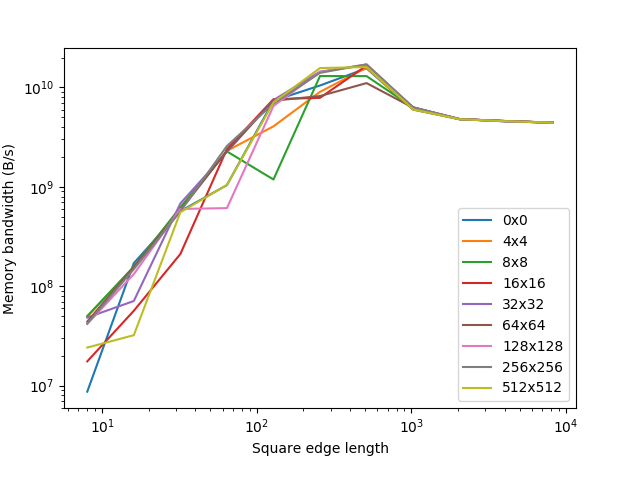
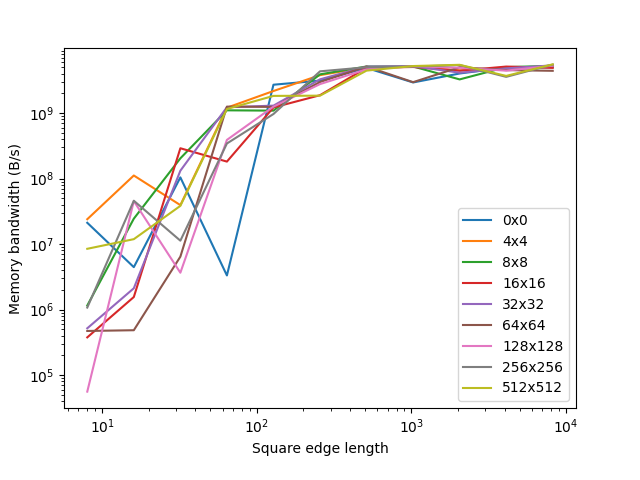
Expensive trig graph

diff --git a/deqn/src/ExplicitSchemeSingleThread.C b/deqn/src/ExplicitSchemeSingleThread.C
@@ -2,6 +2,7 @@
 
 #include <iostream>
 #include <omp.h>
+#include <math.h>
 
 #define POLY2(i, j, imin, jmin, ni) (((i) - (imin)) + (((j)-(jmin)) * (ni)))
 
@@ -86,7 +87,7 @@ void ExplicitSchemeSingleThread::diffuse(double dt)
             int n4 = POLY2(j,k-1,x_min-1,y_min-1,nx);
             int n5 = POLY2(j,k+1,x_min-1,y_min-1,nx);
 
-            u1[n1] = (1.0-2.0*rx-2.0*ry)*u0[n1] + rx*u0[n2] + rx*u0[n3]
+            u1[n1] = acos(cos(asin(sin(1.0-2.0*rx-2.0*ry))))*u0[n1] + rx*u0[n2] + rx*u0[n3]
                 + ry*u0[n4] + ry*u0[n5];
         }
     }

diff --git a/deqn/src/ExplicitScheme.C b/deqn/src/ExplicitScheme.C
@@ -103,7 +103,7 @@ void ExplicitScheme::diffuse(double dt)
             int n4 = POLY2(j,k-1,x_min-1,y_min-1,nx);
             int n5 = POLY2(j,k+1,x_min-1,y_min-1,nx);
 
-            u1[n1] = (1.0-2.0*rx-2.0*ry)*u0[n1] + rx*u0[n2] + rx*u0[n3]
+            u1[n1] = acos(cos(asin(sin(1.0-2.0*rx-2.0*ry))))*u0[n1] + rx*u0[n2] + rx*u0[n3]
                 + ry*u0[n4] + ry*u0[n5];
         }
     }

diff --git a/deqn/analysis.py b/deqn/analysis.py
@@ -243,6 +243,6 @@ def time_against_square_size_by_tile_size():
 if __name__ == "__main__":
     subprocess.run(["bash", "./clean_build.sh"])
     # run_deqn({"OMP_NUM_THREADS":"2"})
-    time_against_thread_count_by_function()
+    # time_against_thread_count_by_function()
     time_against_square_size_by_thread_count()
     time_against_square_size_by_tile_size()
